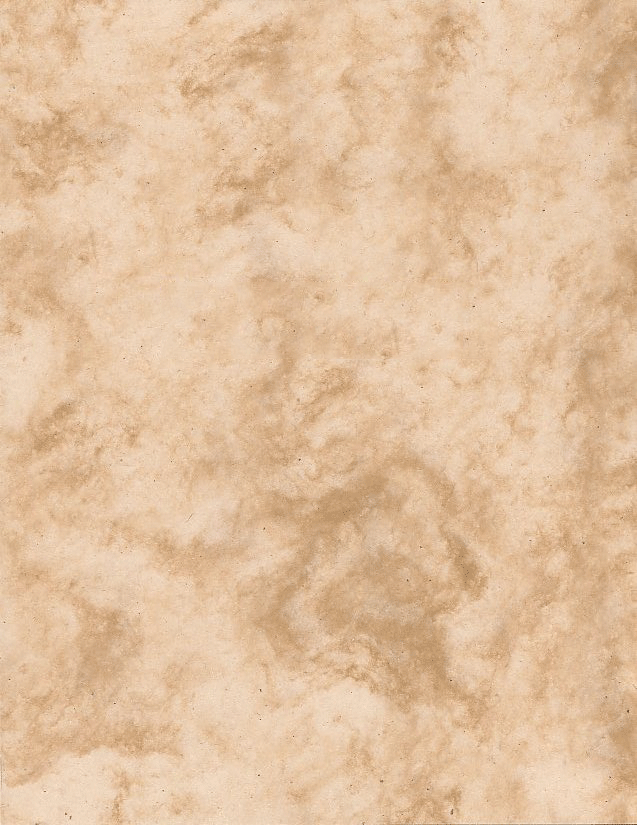
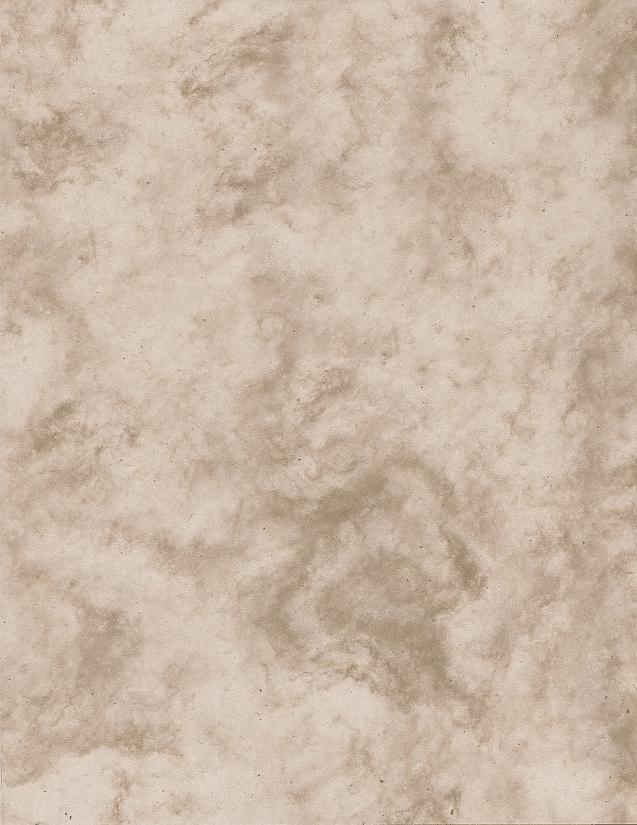
added paper background.

diff --git a/index.html b/index.html
@@ -13,7 +13,7 @@
 <body>
 	
 
-	<div class="container showgrid" url('img/paper.png')>
+	<div class="container " >
 
 <!-- menu bar -->
 		<div id="menu_wrapper" class="blue">
@@ -91,14 +91,13 @@
 </ul>
 
 
-<h2 id="edu">Education:</h2>
-
-<p class="education">Eastern Washington University              Cheney, WA         Expected Graduation 2015</p>
-<p>Majoring in Graphic Design</p>          
-
-
-<p class="education">John R. Rogers High School      Spokane, WA         June 10th 2011</p>
- <p>High School Diploma</p>             
+<h2>Education:</h2>
+ 
+<p class="education">Eastern Washington University   <strong>Cheney, WA</strong>          Expected Graduation 2015</p>
+		<p class="school">Majoring in Graphic Design</p>          
+<p class="education">John R. Rogers High School      <strong>Spokane, WA</strong>         June 10th 2011</p>
+ 		<p class="school">High School Diploma</p>   
+           
 
 
 <h2 id="vol">Activities and Volunteer work</h2>
@@ -109,11 +108,7 @@ Was affiliated with HOBY, WASC, Key Club, DECA, National Honors Society</p>
 
 <h2>References</h2>
 
-<p>Available upon request.</p>
-
-
-
-
+<p>Available upon request.</p><br></br><br></br>
 
 
 

diff --git a/css/styles.css b/css/styles.css
@@ -1,10 +1,12 @@
 /* Your Website Styles */
 html {
 
-font-family: 'Headland One', serif;}
+font-family: 'Headland One', serif;
+
+}
 
 body {
-	background: url(../img/paper.png);
+	background-image: url(../img/paper.png);
 }
 
 /* mene bar */
@@ -68,6 +70,21 @@ text-indent: 20px;
 }
 
 .education {
-
 	white-space: pre;
-}
+ }
+
+
+.school {
+	text-indent: 50px;
+	font-style: italic;
+} 
+
+
+
+
+
+
+
+
+
+
